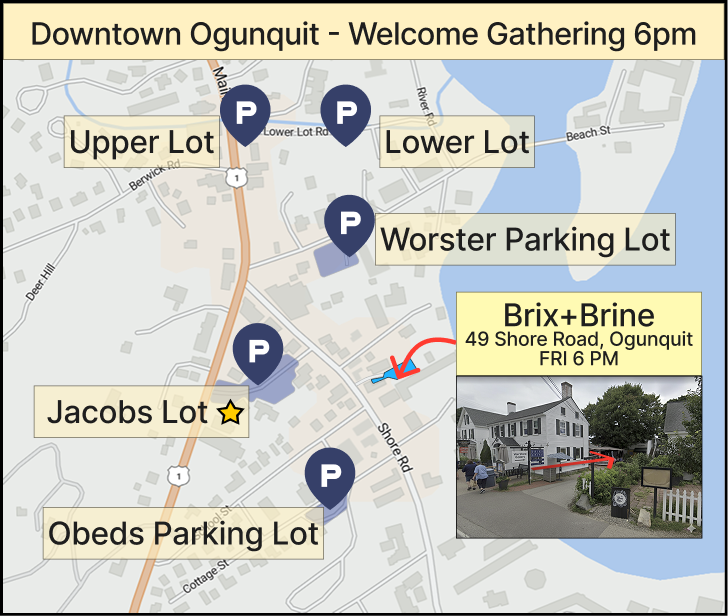
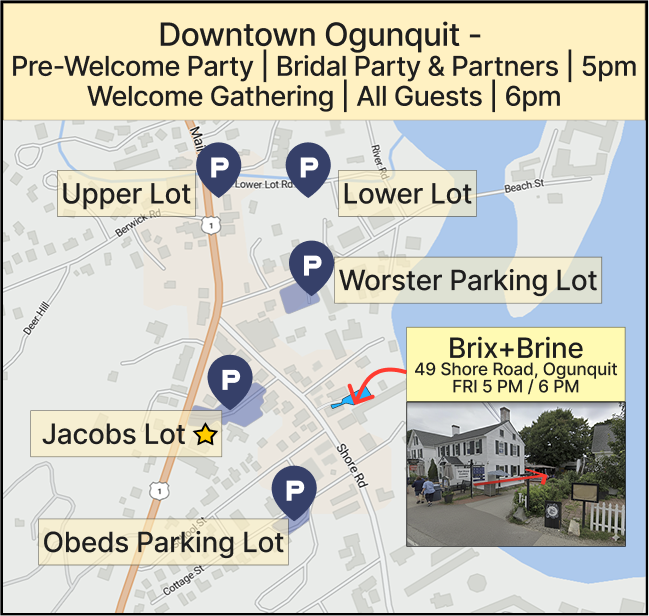
Update event details and add new image for ceremony logistics, update Ogunquit map.

diff --git a/pages/1_Useful Maps.py b/pages/1_Useful Maps.py
@@ -15,6 +15,7 @@ def mobile():
     st.image("photos/Downtown Ogunquit.png", caption="Downtown Ogunquit & Parking Map")
     st.image("photos/York Harbor Inn & Hartley Mason Reserve.png", caption="York Harbor Inn & Hartley Mason Reserve Map")
     st.image("photos/Ceremony Seating Chart & Procession Order.png", caption="Ceremony Seating Chart & Procession Order")
+    st.image("photos/Ceremony Microphones and Camera Logistics.png", caption="Ceremony Microphones and Camera Logistics")
     st.image("photos/York Harbor Inn Main Building.png", caption="York Harbor Inn Main Building")
     st.image("photos/Seacoast Pickleball - Farewell Brunch.png", caption="Seacoast Pickleball")
 
@@ -24,6 +25,7 @@ def pc():
         "photos/Downtown Ogunquit.png": "Downtown Ogunquit & Parking Map",
         "photos/York Harbor Inn & Hartley Mason Reserve.png": "York Harbor Inn & Hartley Mason Reserve Map",
         "photos/Ceremony Seating Chart & Procession Order.png": "Ceremony Ceating Chart & Procession Order",
+        "photos/Ceremony Microphones and Camera Logistics.png": "Ceremony Microphones and Camera Logistics",
         "photos/York Harbor Inn Main Building.png": "York Harbor Inn Main Building",
         "photos/Seacoast Pickleball - Farewell Brunch.png": "Seacoast Pickleball"
     }

diff --git a/Home.py b/Home.py
@@ -18,7 +18,7 @@ st.markdown("""
 | Event(s)                                    | Venue                                   | Link                                                                         |
 | -------------------------------------------- | --------------------------------------- | ---------------------------------------------------------------------------- |
 | Rehearsal, Ceremony, Reception, & Afterparty | York Harbor Inn & Hartley Mason Reserve | [481 York St, York, ME 03909](https://maps.app.goo.gl/sHHaPdMbUTM9amAY8)     |
-| Rehearsal Dinner & Welcome Gathering         | Brix + Brine                            | [49 Shore Rd, Ogunquit, ME 03907](https://maps.app.goo.gl/898LnLweAvZryeZk6) |
+| Pre-Welcome Gathering (Bridal Party)  & Welcome Gathering         | Brix + Brine                            | [49 Shore Rd, Ogunquit, ME 03907](https://maps.app.goo.gl/898LnLweAvZryeZk6) |
 | Farewell Brunch                              | Seacoast Pickleball                     | [1050 U.S. 1, York, ME 03909](https://maps.app.goo.gl/eVa7xVNP8KUR2Bpm6)     |
 """)
 
